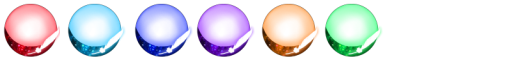
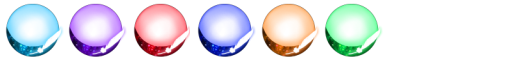
エレメントの種類の順番を変えました

Changed region(s): [[0.0, 0.0625, 0.5, 0.9062]]

diff --git a/Scripts/BagScript/MenuActive.cs b/Scripts/BagScript/MenuActive.cs
@@ -212,7 +212,8 @@ public class MenuActive : MonoBehaviour
         saveCsvSc_.SaveEnd();
     }
 
-    private void DataLoad()
+   // private void DataLoad()
+    public void DataLoad()
     {
         Debug.Log("ロードキー押下");
 
@@ -232,8 +233,15 @@ public class MenuActive : MonoBehaviour
         // キャラクター数分のfor文を回す
         for (int i = 0; i < (int)SceneMng.CHARACTERNUM.MAX; i++)
         {
-            // 一時変数に入れてからじゃないとsetに入れられない
-            Bag_Magic.MagicData[] tmpArray = { Bag_Magic.data[int.Parse(csvDatas[i + 1][10])], Bag_Magic.data[int.Parse(csvDatas[i + 1][11])], Bag_Magic.data[int.Parse(csvDatas[i + 1][12])], Bag_Magic.data[int.Parse(csvDatas[i + 1][10])]  };
+            //// 一時変数に入れてからじゃないとsetに入れられない
+            int[] tmpArray = { int.Parse(csvDatas[i + 1][10]),
+                                int.Parse(csvDatas[i + 1][11]), 
+                                int.Parse(csvDatas[i + 1][12]), 
+                                int.Parse(csvDatas[i + 1][13]) };
+            Debug.Log(Bag_Magic.data[tmpArray[0]].element);
+            Debug.Log(Bag_Magic.data[tmpArray[1]].element);
+            Debug.Log(Bag_Magic.data[tmpArray[2]].element);
+            Debug.Log(Bag_Magic.data[tmpArray[3]].element);
 
             CharaBase.CharacterSetting set = new CharaBase.CharacterSetting
             {

diff --git a/Scripts/SaveCSV_Magic.cs b/Scripts/SaveCSV_Magic.cs
@@ -29,7 +29,7 @@ public class SaveCSV_Magic : MonoBehaviour
         }
 
         // ステータスの項目見出し
-        string[] s1 = { "MagicName", "Power", "Rate",
+        string[] s1 = { "Number","Name", "Power", "Rate",
                         "Head", "Element", "Tail", "Sub1", "Sub2", "Sub3" };//,"ImageNum"};
         string s2 = string.Join(",", s1);
         sw_.WriteLine(s2);
@@ -39,7 +39,7 @@ public class SaveCSV_Magic : MonoBehaviour
     public void SaveMagicData(Bag_Magic.MagicData set)
     {
         // 実際のステータス値
-        string[] data = { set.name, set.power.ToString(), set.rate.ToString() ,
+        string[] data = { set.number.ToString(),set.name, set.power.ToString(), set.rate.ToString() ,
                          set.head.ToString(),set.element.ToString(),set.tail.ToString(),
                          set.sub1.ToString(),set.sub2.ToString(),set.sub3.ToString()};
        // set.sprite.ToString() 

diff --git a/Scripts/Chara.cs b/Scripts/Chara.cs
@@ -263,12 +263,13 @@ public class Chara : CharaBase,InterfaceButtle
     //{
     //    return set_.Magic[arrayNum];
     //}
-    public void SetMagicNum(int arrayNum, int num = 0)
+    public void SetMagicNum(int arrayNum,int num = 0)
     {
-        set_.Magic[arrayNum] =Bag_Magic.data[num];
+        set_.Magic[arrayNum] = num;
+      //  Debug.Log(set_.Magic[arrayNum].name);
     }
 
-    public Bag_Magic.MagicData GetMagicNum(int arrayNum)
+    public int GetMagicNum(int arrayNum)
     {
         return set_.Magic[arrayNum];
     }
